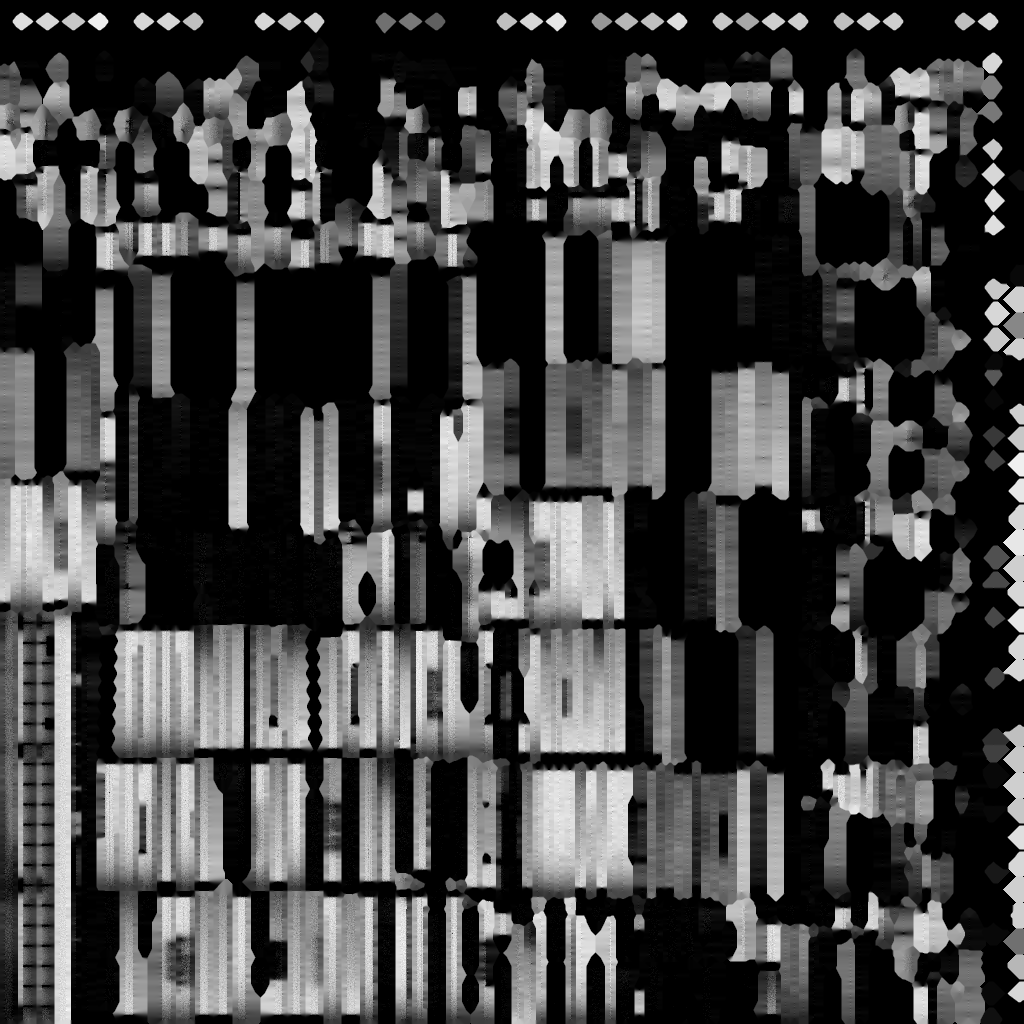
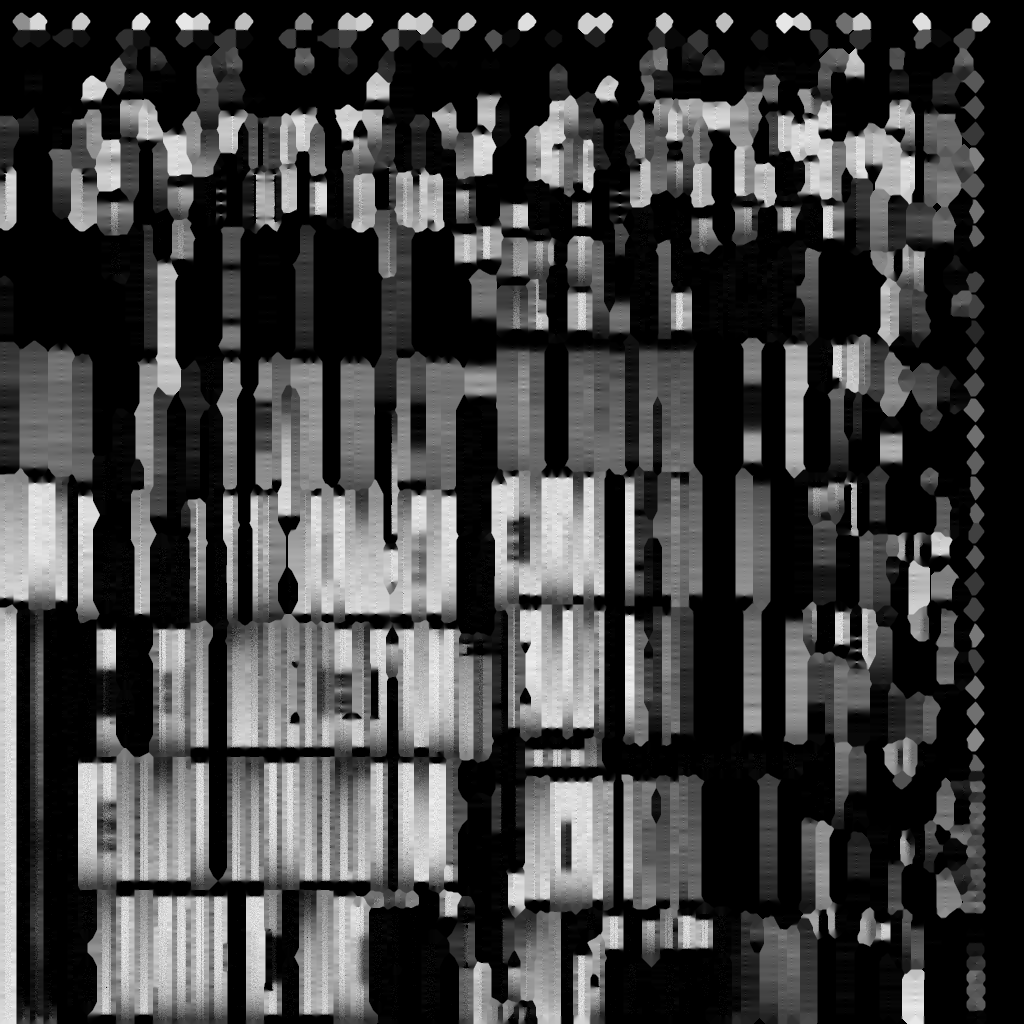
REPORTE: desviaciones, problemas conocidos y saldo; atlas de CAB_1 en re-horneado (parcial)
Claude-Session: https://claude.ai/code/session_01QzJUdvU2aDqqRZrKajniAp

diff --git a/blackisle-kit-edificios/entrega/REPORTE.md b/blackisle-kit-edificios/entrega/REPORTE.md
@@ -56,10 +56,47 @@ new GLTFLoader().load('modelos/APT_A_5p.glb', (g) => {
   excepción a R1 (la cuota ilimitada de la web no está expuesta al MCP).
 - Gasto atribuible a este trabajo: **105,0 créditos** (fases B y C: 81,0 incluido 1,5 de atribución incierta; fase D: 24,0).
   62 + 16 imágenes enviadas; 9 falsos positivos del filtro nsfw, reembolsados.
-- Saldo consultado al cierre: <!-- SALDO -->.
+- Saldo consultado al cierre: **1 008,25 créditos, plan `plus`** (2026-10-28 02:54 UTC). No se compara con el saldo esperado tras la fase D (411,26): entretanto la cuenta cambió de plan y tiene recargas y generaciones propias del usuario en la web (GPT Image 2.5 y Nano Banana 2.1, del 25 al 28 de octubre). Revisé las transcripciones de esta sesión y de sus subagentes: **ninguna llamada de generación después de la fase D**.
 
 ## 5. Desviaciones del brief (y por qué)
-<!-- DESVIACIONES -->
+1. **R1 (cuota ilimitada):** el MCP de Higgsfield no expone la cuota ilimitada de la web (`unlim.available = false` en todos los
+   modelos). Se usó **Nano Banana 2.1 a 1k (1,5 créditos)** con autorización expresa del usuario (2026-10-09). Total: 105,0 créditos.
+2. **Presupuesto de triángulos:** el brief pedía 200–450 k por departamento (techo 600 k) y 150–300 k por cabaña. La orden del usuario
+   de construir **todo el interior** (cuartos, corredores, núcleos de escalera, puertas) no cabe ahí. Decisión R8 registrada (2026-10-10):
+   techo de **700 k** por departamento. Medido en el GLB: APT_C 596 k (dentro); APT_B 740 k y APT_D 742 k (+6 %); **APT_A 821 k (+17 %)**,
+   el piloto, con fachada y celosía más densas. CAB_TRIS_NOTE
+   Palancas ya aplicadas: teja en nivel `low`, A/C en `low`, canalón solo frente/fondo, hojas de puerta saqueadas. Para el juego hacen falta
+   LOD (ver §6).
+3. **Horneado (§4.7):** un atlas único para todo el modelo dejaba decenas de miles de islas de 1–3 px (piezas sueltas). Atlas únicos solo en
+   superficies continuas (muros exteriores `walls_main`/`walls_rest` y terreno `skirt`). Detalles, techo, interior, hierba y escombro llevan
+   **PBR repetible a escala real** (`KHR_texture_transform`) + **oclusión por vértice** en `COLOR_0`. También se quitaron el atlas `interior`
+   previsto y la AO en un 2.º canal UV: `COLOR_0` lo resuelve sin texturas extra.
+4. **Aplanado interior:** el repetible T2 (pintura naranja descascarada) se veía saturado y a escala de juguete dentro de los cuartos.
+   El interior usa la variante `T2_old_plaster_paint_int.png` (saturación × 0,2, gris sucio) a 1,2 m por repetición.
+5. **Conceptos de APT_B y APT_D rehechos (v3):** la regla del usuario (cero escaleras exteriores) invalidó la torre de escalera de B y la
+   escalera de emergencia de D. Los modelos siguen los heroes v3. La pieza firma de D pasó a ser los balcones colgados, las buhardillas y
+   las celosías de escalera.
+6. **R4 en el grafiti:** la corona y la estrella de 5 puntas de la hoja de íconos y la corona de `C02_isla_negra` salían de la
+   biblioteca generada. Juntas forman simbología de una alianza de pandillas real, así que se borraron y los paneles de los 4 departamentos
+   se regeneraron. Palabras y crews: solo los de la lista (crews ficticios KAOS, ZORO, NOVA, REXO).
+7. **Tamaño de archivo:** los GLB de departamento pesan 44–59 MiB (sin Draco, como pide el brief). Están por debajo del límite de 100 MB
+   de GitHub, pero por encima del aviso de 50 MB.
+8. **Validación en Three.js por software:** el contenedor no tiene GPU. Carga, sombras, texturas y recorridos se probaron con three r169 en
+   Chromium + SwiftShader. No hay medición de FPS en GPU real.
 
 ## 6. Problemas conocidos
-<!-- PROBLEMAS -->
+1. **Memoria de texturas:** ~221 MB por departamento y ~120–125 MB por cabaña (PNG sin comprimir en GPU). Los 11 repetibles son las mismas
+   imágenes en los 7 GLB, pero van embebidos en cada archivo y three.js no los comparte: con los 7 cargados, ≈ 1,25 GB.
+   Recomendado: convertir a **KTX2/Basis** (p. ej. `gltf-transform etc1s/uastc`, 4–6× menos) y/o cachear las texturas repetibles por nombre
+   en `mapa.html`.
+2. **Atlas de muros suave de cerca:** 4096² para ~800 m² de fachada dan ≈ 1,4 px/cm. A 2 m, el grafiti y la pintura descascarada se ven
+   blandos. Se nota sobre todo en APT_A y APT_D. Mejora posible: mapa de detalle repetible encima del atlas o atlas de 8192 para la PB.
+3. **z-fighting residual** (medido con `blender/tests/zfight.py`, caras coplanares visibles a < 1,2 mm): ZF_NOTE
+4. **Sin LOD ni colisionadores:** 600–820 k triángulos por departamento a distancia de mapa. Para el juego conviene un LOD a ~30 % y otro
+   de caja, más colisionadores simplificados por nivel (muros, losas, rampas de escalera). Unas 30 llamadas de dibujo por modelo.
+5. **Interiores a oscuras sin iluminación de juego:** solo entra luz por ventanas y puertas. Las capturas de `render_qa/recorrido/` usan
+   dos bombillas puntuales por toma. En el mapa hacen falta luces interiores o una sonda de luz/irradiancia.
+6. **CAB_2 (tapanco):** altura libre baja bajo la cumbrera y acceso por escalera de mano. El juego necesita una mecánica de trepar (o un
+   volumen de escalera).
+7. **Daños y escombro interior** son geometría estática; ninguna pieza está separada para destrucción.
+8. **Validación visual en SwiftShader** (sin GPU): sombras PCF y antialias pueden verse distintos en GPU real.
